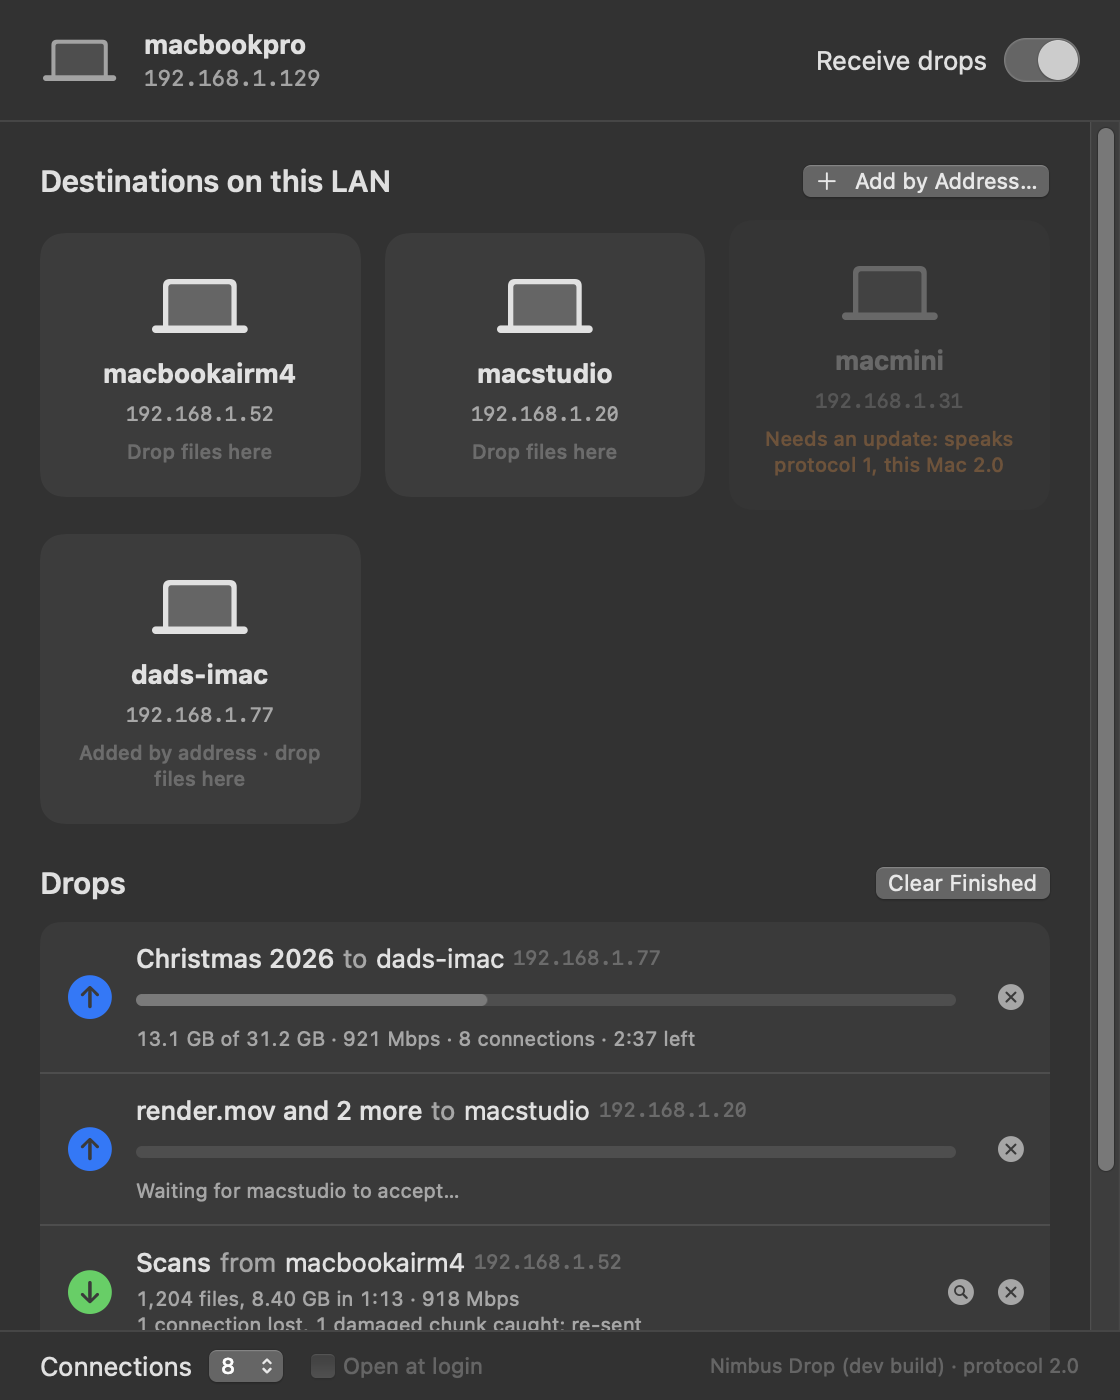
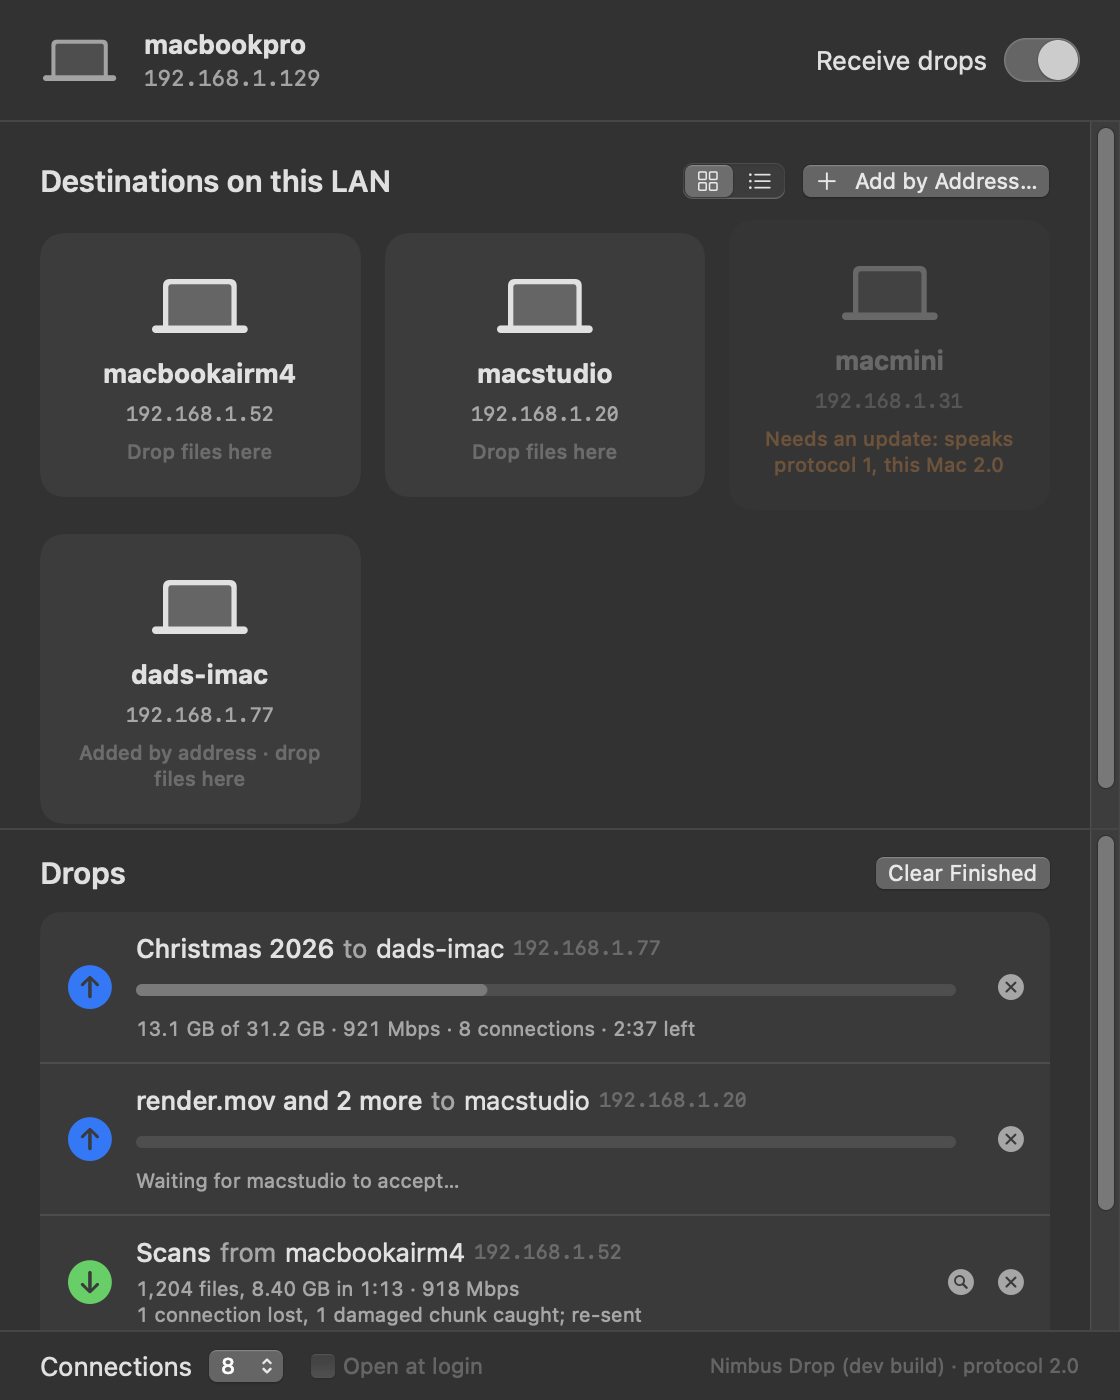
Destinations as tiles or a compact list; the drops stay pinned under them
A segmented switch beside the heading (remembered), a list row per destination
that is the same drop target and button as a tile, and the drops in their own
area between the destinations and the footer, as tall as their content up to
about three rows, so progress never scrolls away. --crowd N renders the window
with N made-up destinations.

diff --git a/Sources/NimbusDrop/MainWindow.swift b/Sources/NimbusDrop/MainWindow.swift
@@ -12,6 +12,7 @@ struct MainView: View {
     @State private var address = ""
     @State private var addressError: String?
     @State private var backgroundTargeted = false
+    @State private var dropsHeight: CGFloat = 120
     @FocusState private var addressFocused: Bool
 
     var body: some View {
@@ -25,7 +26,6 @@ struct MainView: View {
                             .font(.callout).foregroundStyle(.orange)
                     }
                     destinations
-                    if !model.rows.isEmpty { drops }
                 }
                 .padding(20)
                 .frame(maxWidth: .infinity, alignment: .leading)
@@ -39,6 +39,18 @@ struct MainView: View {
                 if usable.count == 1 { model.send(files, to: usable[0]) } else { model.pendingURLs = files }
                 return true
             } isTargeted: { backgroundTargeted = $0 }
+            // The drops stay put under the destinations, however many of those there are: a
+            // transfer's progress must not scroll away. Past a few drops, they scroll on their own.
+            if !model.rows.isEmpty {
+                Divider()
+                ScrollView {
+                    drops.padding(.horizontal, 20).padding(.vertical, 12)
+                        .background(GeometryReader { g in Color.clear.preference(key: HeightKey.self, value: g.size.height) })
+                }
+                .onPreferenceChange(HeightKey.self) { dropsHeight = $0 }
+                // As tall as its drops, and no taller than about three of them.
+                .frame(height: min(max(dropsHeight, 40), 250))
+            }
             Divider()
             footer
         }
@@ -73,6 +85,12 @@ struct MainView: View {
             HStack {
                 Text("Destinations on this LAN").font(.title3.weight(.semibold))
                 Spacer()
+                Picker("View", selection: $model.listLayout) {
+                    Image(systemName: "square.grid.2x2").tag(false).help("Tiles")
+                    Image(systemName: "list.bullet").tag(true).help("List")
+                }
+                .pickerStyle(.segmented).labelsHidden().fixedSize().controlSize(.small)
+                .help("Show destinations as tiles or as a compact list.")
                 Button { model.askingForAddress.toggle() } label: { Label("Add by Address…", systemImage: "plus") }
                     .controlSize(.small)
                     .help("Add a Mac by its IP address or host name, for when it is not found on its own.")
@@ -94,13 +112,24 @@ struct MainView: View {
                 }
                 .frame(maxWidth: .infinity).padding(.vertical, 34)
                 .background(RoundedRectangle(cornerRadius: 12).strokeBorder(.quaternary, style: StrokeStyle(lineWidth: 1.5, dash: [6, 5])))
+            } else if model.listLayout {
+                VStack(spacing: 0) {
+                    ForEach(Array(model.destinations.enumerated()), id: \.element.id) { index, peer in
+                        if index > 0 { Divider().padding(.leading, 40) }
+                        PeerRow(peer: peer, model: model, hint: backgroundTargeted && onlyOne)
+                    }
+                }
+                .background(RoundedRectangle(cornerRadius: 10).fill(.quaternary.opacity(0.4)))
             } else {
                 LazyVGrid(columns: [GridItem(.adaptive(minimum: 150, maximum: 220), spacing: 12)], alignment: .leading, spacing: 12) {
-                    ForEach(model.destinations) { PeerTile(peer: $0, model: model, hint: backgroundTargeted && model.destinations.filter(\.isCompatible).count == 1) }
+                    ForEach(model.destinations) { PeerTile(peer: $0, model: model, hint: backgroundTargeted && onlyOne) }
                 }
             }
         }
     }
+
+    /// Files dragged over the window have exactly one place they could go.
+    private var onlyOne: Bool { model.destinations.filter(\.isCompatible).count == 1 }
 
     private var addressField: some View {
         VStack(alignment: .leading, spacing: 4) {
@@ -164,6 +193,11 @@ struct MainView: View {
     }
 }
 
+private struct HeightKey: PreferenceKey {
+    static let defaultValue: CGFloat = 0
+    static func reduce(value: inout CGFloat, nextValue: () -> CGFloat) { value = max(value, nextValue()) }
+}
+
 /// One destination. A drop target, and a button for people who would rather pick files from a panel.
 private struct PeerTile: View {
     let peer: Peer
@@ -221,6 +255,62 @@ private struct PeerTile: View {
         .help(peer.isCompatible
               ? "Drag files or folders here to send them to \(peer.name)\(peer.appVersion.map { " (Nimbus Drop \($0))" } ?? ""), or click to choose them."
               : "\(peer.name) runs Nimbus Drop \(peer.appVersion ?? "of another version"), which speaks protocol \(peer.protocolText). This Mac speaks \(protocolVersionText). Update Nimbus Drop on both.")
+    }
+}
+
+/// One destination as a line in the compact list: the same drop target and button as a tile.
+private struct PeerRow: View {
+    let peer: Peer
+    let model: AppModel
+    var hint = false
+    @State private var targeted = false
+    @State private var hovered = false
+
+    private var lit: Bool { (targeted || hint) && peer.isCompatible }
+    private var silent: Bool { peer.isManual && peer.unreachable }
+
+    private var note: String {
+        if !peer.isCompatible { return "Needs an update (protocol \(peer.protocolText))" }
+        if silent { return "Not answering" }
+        if lit { return "Release to send" }
+        return peer.isManual ? "Added by address" : ""
+    }
+
+    var body: some View {
+        Button {
+            if model.pendingURLs.isEmpty { model.chooseAndSend(to: peer) } else { model.send(model.pendingURLs, to: peer) }
+        } label: {
+            HStack(spacing: 10) {
+                Image(systemName: lit ? "arrow.down.circle.fill" : (silent ? "questionmark.circle" : "laptopcomputer"))
+                    .foregroundStyle(lit ? AnyShapeStyle(.tint) : AnyShapeStyle(.secondary)).frame(width: 20)
+                Text(peer.name).font(.body.weight(.medium)).lineLimit(1).truncationMode(.middle)
+                Text((peer.address ?? "finding address…") + (peer.isManual && peer.port != defaultPort ? ":\(peer.port ?? 0)" : ""))
+                    .font(.system(.callout, design: .monospaced)).foregroundStyle(.secondary).lineLimit(1)
+                Spacer(minLength: 8)
+                Text(note).font(.caption).lineLimit(1)
+                    .foregroundStyle(lit ? AnyShapeStyle(.tint) : (peer.isCompatible ? AnyShapeStyle(.tertiary) : AnyShapeStyle(.orange)))
+                if peer.isManual, hovered {
+                    Button { model.removeManual(peer) } label: { Image(systemName: "xmark.circle.fill") }
+                        .buttonStyle(.plain).foregroundStyle(.secondary).help("Remove this address")
+                }
+            }
+            .padding(.horizontal, 12).padding(.vertical, 7)
+            .background(lit ? AnyShapeStyle(.tint.opacity(0.16)) : AnyShapeStyle(.quaternary.opacity(hovered ? 0.6 : 0)))
+            .contentShape(Rectangle())
+            .opacity(peer.isCompatible && !silent ? 1 : 0.6)
+        }
+        .buttonStyle(.plain)
+        .disabled(!peer.isCompatible)
+        .onHover { hovered = $0 }
+        .dropDestination(for: URL.self) { urls, _ in
+            let files = urls.filter(\.isFileURL)
+            guard !files.isEmpty, peer.isCompatible else { return false }
+            model.send(files, to: peer)
+            return true
+        } isTargeted: { targeted = $0 }
+        .help(peer.isCompatible
+              ? "Drag files or folders here to send them to \(peer.name), or click to choose them."
+              : "\(peer.name) speaks protocol \(peer.protocolText); this Mac speaks \(protocolVersionText). Update Nimbus Drop on both.")
     }
 }
 
@@ -293,9 +383,46 @@ final class MainWindowController: NSObject, NSWindowDelegate {
 
     // MARK: Layout check
 
+    /// The window with `count` made-up destinations and one drop, at its default size and at a
+    /// wide one: how the grid copes with a busy network.
+    private static func dumpCrowd(to path: String, count: Int) -> Bool {
+        let kinds = ["macbookpro", "macbookair", "macstudio", "macmini", "imac", "render-node", "edit-bay", "front-desk"]
+        let peers = (0..<count).map { i -> Peer in
+            Peer(id: "\(i)", name: i % 5 == 4 ? "\(kinds[i % kinds.count])-with-a-long-name-\(i)" : "\(kinds[i % kinds.count])\(i / kinds.count + 1)",
+                 address: "192.168.1.\(20 + i * 3)", port: 47823)
+        }
+        let rows = [TransferRow(id: UUID(), direction: .send, peerName: "macstudio1", peerAddress: "192.168.1.26", title: "Christmas 2026",
+                                status: "13.1 GB of 31.2 GB · 921 Mbps · 8 connections · 2:37 left", fraction: 0.42, isActive: true,
+                                isIndeterminate: false, failed: false, canReveal: false),
+                    TransferRow(id: UUID(), direction: .receive, peerName: "edit-bay1", peerAddress: "192.168.1.38", title: "Scans",
+                                status: "1,204 files, 8.40 GB in 1:13 · 918 Mbps", fraction: 1, isActive: false,
+                                isIndeterminate: false, failed: false, canReveal: true)]
+        let base = path.hasSuffix(".png") ? String(path.dropLast(4)) : path
+        var ok = true
+        for (suffix, size, list) in [("", NSSize(width: 560, height: 620), false), ("-list", NSSize(width: 560, height: 620), true),
+                                     ("-wide", NSSize(width: 1000, height: 700), false)] {
+            let model = AppModel(demoPeers: peers, manual: [], rows: rows, listLayout: list)
+            let host = NSHostingView(rootView: MainView(model: model).background(Color(nsColor: .windowBackgroundColor)))
+            let window = NSWindow(contentRect: NSRect(origin: .zero, size: size), styleMask: [.titled], backing: .buffered, defer: false)
+            window.appearance = NSAppearance(named: .darkAqua)
+            window.contentView = host
+            window.setContentSize(size)
+            host.layoutSubtreeIfNeeded()
+            RunLoop.main.run(until: Date().addingTimeInterval(0.3))
+            host.layoutSubtreeIfNeeded()
+            guard let rep = host.bitmapImageRepForCachingDisplay(in: host.bounds) else { ok = false; continue }
+            host.cacheDisplay(in: host.bounds, to: rep)
+            let out = base + suffix + ".png"
+            do { try rep.representation(using: .png, properties: [:])?.write(to: URL(fileURLWithPath: out)); print("wrote \(out)") }
+            catch { ok = false }
+        }
+        return ok
+    }
+
     /// The window with made-up Macs and drops, off screen, as PNGs: dark, light, and empty.
-    static func dump(to path: String) -> Bool {
+    static func dump(to path: String, crowd: Int = 0) -> Bool {
         _ = NSApplication.shared
+        if crowd > 0 { return dumpCrowd(to: path, count: crowd) }
         var added = Peer(id: "3", name: "dads-imac", address: "192.168.1.77", port: 47823)
         added.isManual = true
         var old = Peer(id: "4", name: "macmini", address: "192.168.1.31", port: 47823, version: 1)
@@ -326,6 +453,7 @@ final class MainWindowController: NSObject, NSWindowDelegate {
             window.setContentSize(NSSize(width: 560, height: 700))
             host.layoutSubtreeIfNeeded()
             RunLoop.main.run(until: Date().addingTimeInterval(0.3))
+            host.layoutSubtreeIfNeeded()
             guard let rep = host.bitmapImageRepForCachingDisplay(in: host.bounds) else { ok = false; continue }
             host.cacheDisplay(in: host.bounds, to: rep)
             let out = base + suffix + ".png"

diff --git a/Sources/NimbusDrop/main.swift b/Sources/NimbusDrop/main.swift
@@ -15,6 +15,7 @@ import NimbusUpdater
 //   --render-dmg-background DIR [--signed]   write the disk image's background PNGs and exit
 //   --dump-bar PATH         render the status item's states to PATH (a strip), exit
 //   --dump-window PATH      render the window with made-up Macs and drops to PATH (+ -light, -empty), exit
+//   --crowd N               with --dump-window: N made-up destinations, at the default size and a wide one
 //   --dump-offer PATH       render the "do you want this drop?" panel to PATH, exit
 //   --show-window           open the window at launch (the app otherwise starts in the menu bar only)
 //
@@ -45,6 +46,7 @@ func usage() -> Never {
 
 var dumpBarPath: String?
 var dumpWindowPath: String?
+var dumpCrowd = 0
 var showWindowAtLaunch = false
 var renderIconPath: String?
 var renderIconSize = 1024
@@ -85,6 +87,7 @@ while !args.isEmpty {
     case "--dump-bar": dumpBarPath = takeValue(a)
     case "--dump-window": dumpWindowPath = takeValue(a)
     case "--dump-offer": let v = takeValue(a); exit(MainActor.assumeIsolated { OfferPanel.dump(to: v) ? 0 : 1 })
+    case "--crowd": dumpCrowd = Int(takeValue(a)) ?? 0
     case "--show-window": showWindowAtLaunch = true
     case "--receive":
         receiveDir = "."
@@ -128,7 +131,7 @@ if let path = renderIconPath {
     exit(0)
 }
 if let path = dumpBarPath { exit(MainActor.assumeIsolated { StatusBarController.dumpBar(to: path) ? 0 : 1 }) }
-if let path = dumpWindowPath { exit(MainActor.assumeIsolated { MainWindowController.dump(to: path) ? 0 : 1 }) }
+if let path = dumpWindowPath { exit(MainActor.assumeIsolated { MainWindowController.dump(to: path, crowd: dumpCrowd) ? 0 : 1 }) }
 if let cli { exit(MainActor.assumeIsolated { CLI.run(cli) }) }
 
 @MainActor

diff --git a/Sources/NimbusDrop/AppModel.swift b/Sources/NimbusDrop/AppModel.swift
@@ -40,6 +40,8 @@ final class AppModel: ObservableObject {
     /// Macs added by address, as last heard from.
     @Published var manual: [Peer] = []
     @Published var streams = Settings.streams
+    /// Destinations as a compact list (true) or a grid of tiles.
+    @Published var listLayout = Settings.listLayout { didSet { if live { Settings.listLayout = listLayout } } }
     @Published var openAtLogin = LoginItem.isEnabled
     /// "0.2.0", when the updater has that version downloaded and ready to install.
     @Published var updateReady: String?
@@ -78,7 +80,7 @@ final class AppModel: ObservableObject {
     }
 
     /// Made-up contents for `--dump-window`; touches no network.
-    init(demoPeers: [Peer], manual: [Peer], rows: [TransferRow], receiving: Bool = true, askingForAddress: Bool = false) {
+    init(demoPeers: [Peer], manual: [Peer], rows: [TransferRow], receiving: Bool = true, askingForAddress: Bool = false, listLayout: Bool = false) {
         identity = Identity(name: "macbookpro", id: "demo")
         self.receiving = receiving
         addresses = [LocalHost.Address(interface: "en0", address: "192.168.1.129")]
@@ -87,6 +89,7 @@ final class AppModel: ObservableObject {
         self.rows = rows
         self.askingForAddress = askingForAddress
         live = false
+        self.listLayout = listLayout
     }
 
     // MARK: Lifecycle

diff --git a/Sources/NimbusDrop/Settings.swift b/Sources/NimbusDrop/Settings.swift
@@ -39,6 +39,12 @@ enum Settings {
         set { d.set(newValue, forKey: "manualDestinations") }
     }
 
+    /// Destinations as a compact list rather than a grid of tiles.
+    static var listLayout: Bool {
+        get { d.bool(forKey: "listLayout") }
+        set { d.set(newValue, forKey: "listLayout") }
+    }
+
     static let defaultStreams = 8
     static let streamChoices = [1, 2, 4, 8, 16]
 }
